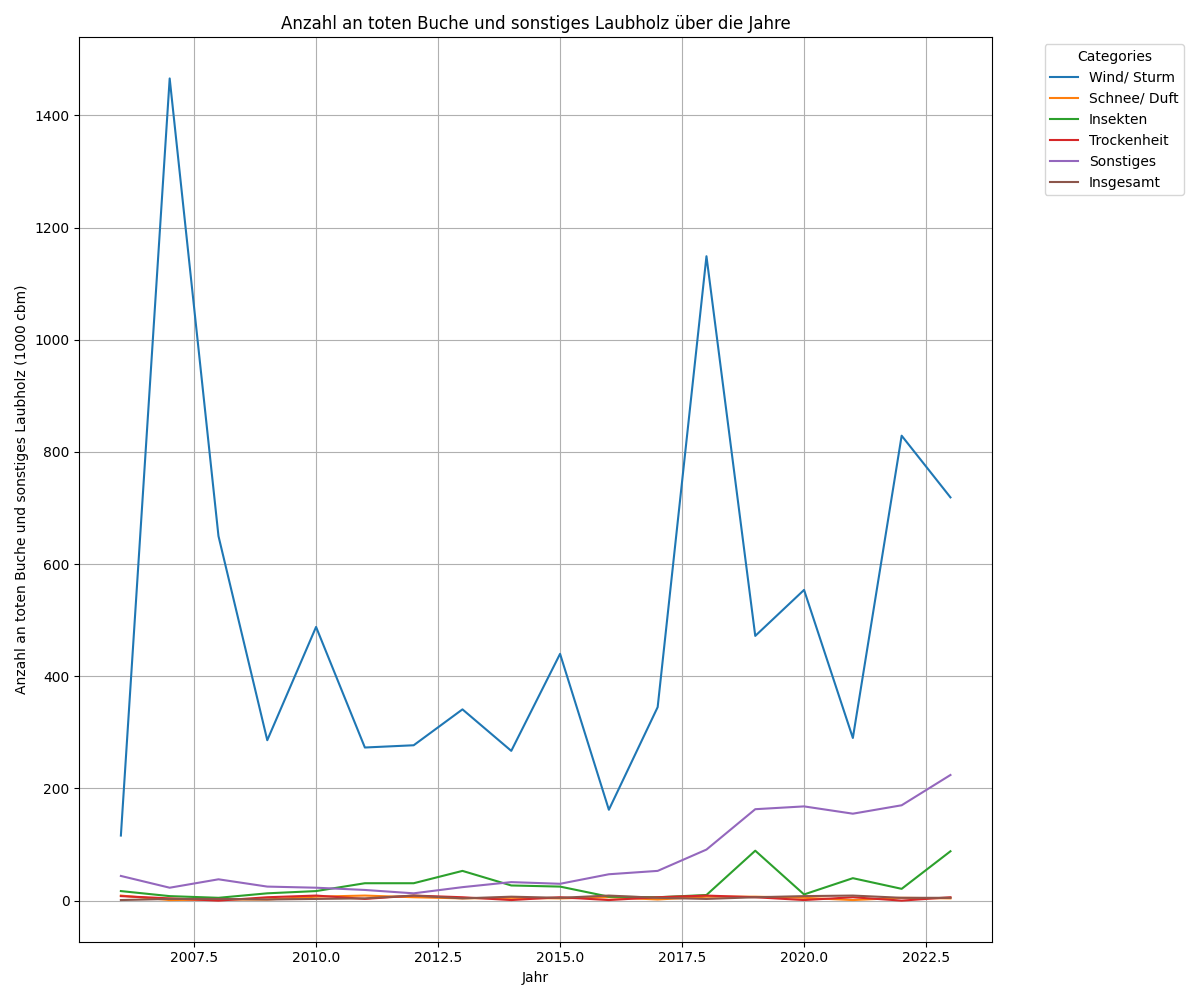
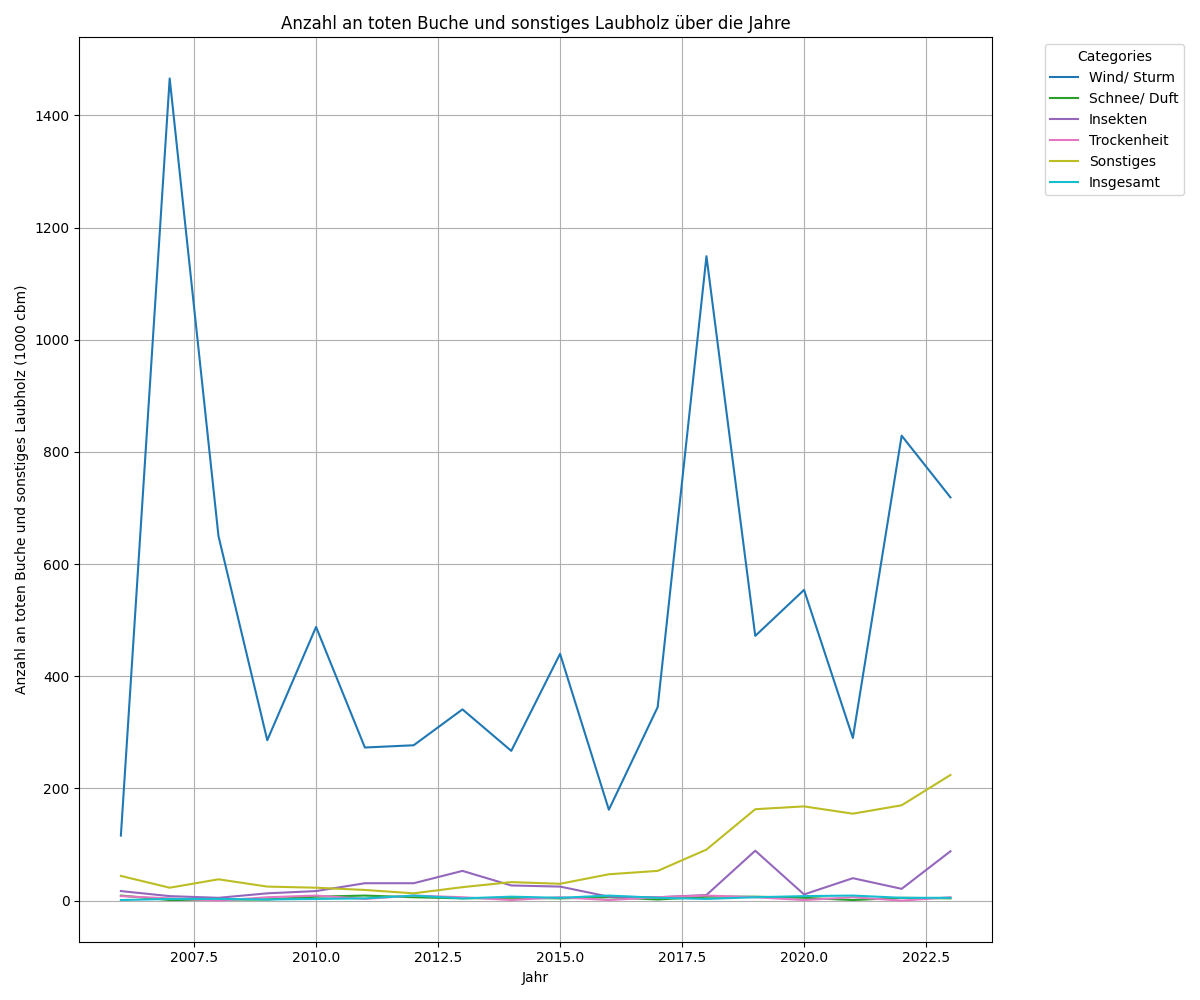
more colours

Changed region(s): [[0.0925, 0.837, 0.7708, 0.899]]

diff --git a/src/damagedlogginganalyzer/DamagedLoggingAnalyzer.py b/src/damagedlogginganalyzer/DamagedLoggingAnalyzer.py
@@ -67,10 +67,12 @@ class DamagedLoggingAnalyzer(CSVAnalyzer):
         """
         plt.figure(figsize=(12, 10))
 
+        color_map = plt.cm.get_cmap('tab10', len(species_dict))  # Use a colormap with enough colors
+
         # Iterate over each key-value pair in the dictionary
-        for key, data_points in species_dict.items():
+        for i, (key, data_points) in enumerate(species_dict.items()):
             key = key.removeprefix("Einschlagsursache: ")
-            plt.plot(self.__years, data_points, label=key)
+            plt.plot(self.__years, data_points, label=key, color=color_map(i))
 
         plt.xlabel("Jahr")
         plt.ylabel(f"Anzahl an toten {species} (1000 cbm)")
